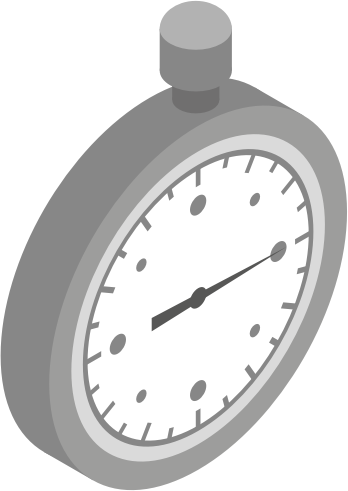
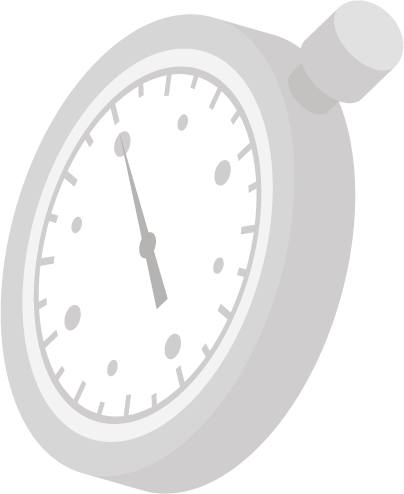
Adjusted styles and added tint to images

diff --git a/screens/Home.js b/screens/Home.js
@@ -173,12 +173,12 @@ class HomeScreen extends React.Component {
             </View>
           </ScrollView>
           <View style={styles.scaleImageContainer}>
-            <Image resizeMode={'contain'} source={require('../assets/images/main/Scales.png')}
-              style={styles.containerImage} />
+            <Image resizeMode={'contain'} source={require('../assets/images/main/ScalesBottleMat.png')} 
+               style={styles.containerImage}/>
           </View>
           <View style={styles.stopwatchImageContainer}>
             <Image resizeMode={'contain'} source={require('../assets/images/main/Stopwatch.png')}
-              style={styles.containerImage} />
+              style={[styles.containerImage]} />
           </View>
           <View style={styles.weigthImageContainer}>
             <Image resizeMode={'contain'} source={require('../assets/images/main/Weights.png')} style={styles.containerImage}/>
@@ -279,22 +279,22 @@ const styles = StyleSheet.create({
   },
   scaleImageContainer: { 
     position: 'absolute', 
-    bottom: "45%", 
-    right: "-0%", 
-    width: "30%", 
-    aspectRatio: 1, 
-    justifyContent: 'center', 
-    transform: [{ rotate: '20deg' }]
-  },
-  stopwatchImageContainer: { 
-    position: 'absolute', 
     bottom: "20%", 
     left: "-10%", 
     width: "55%", 
     aspectRatio: 1, 
     justifyContent: 'center', 
     padding: 0,
-    transform: [{ rotate: '-40deg' }]
+    transform: [{ rotateY: '180deg' }]
+  },
+  stopwatchImageContainer: { 
+    position: 'absolute', 
+    bottom: "45%", 
+    right: "-5%", 
+    width: "32%", 
+    aspectRatio: 1, 
+    justifyContent: 'center', 
+    transform: [{ rotate: '-25deg' }]
   },
   weigthImageContainer: { 
     position: 'absolute', 
